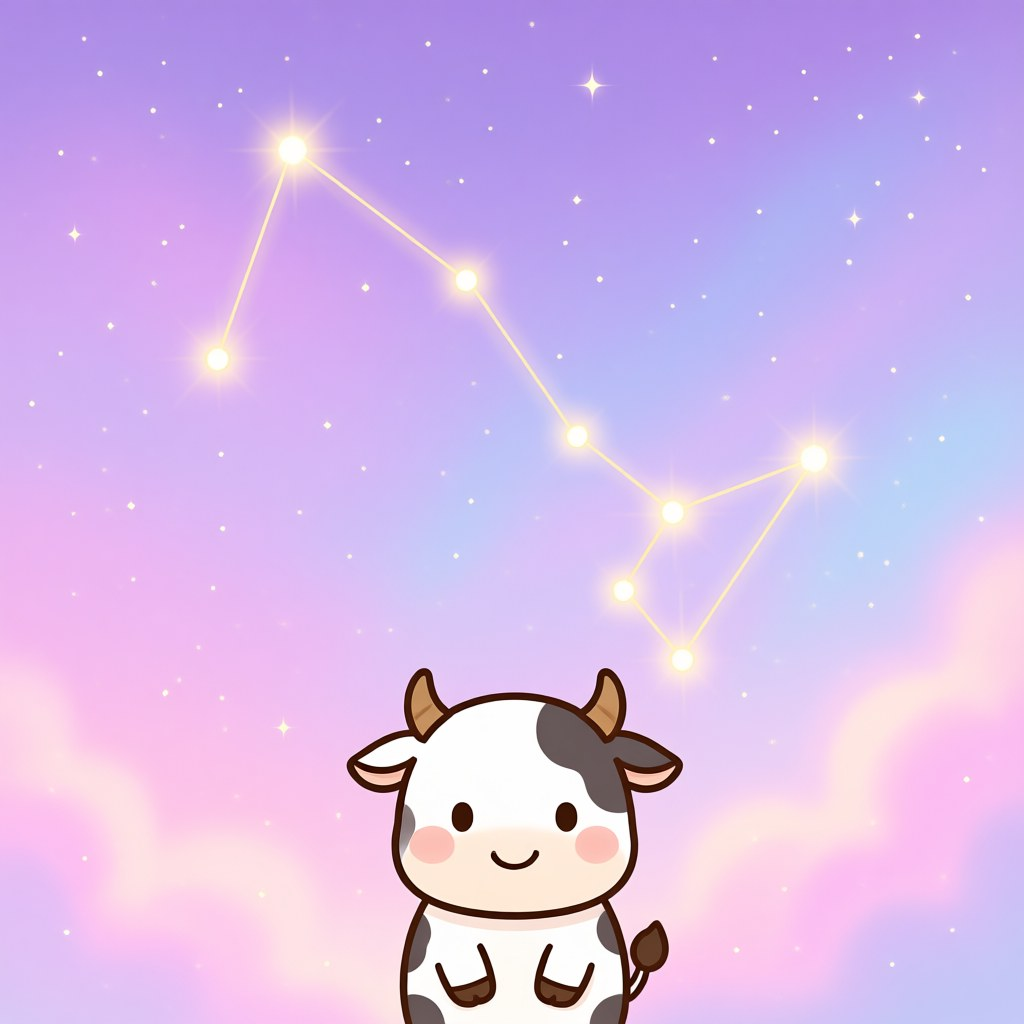
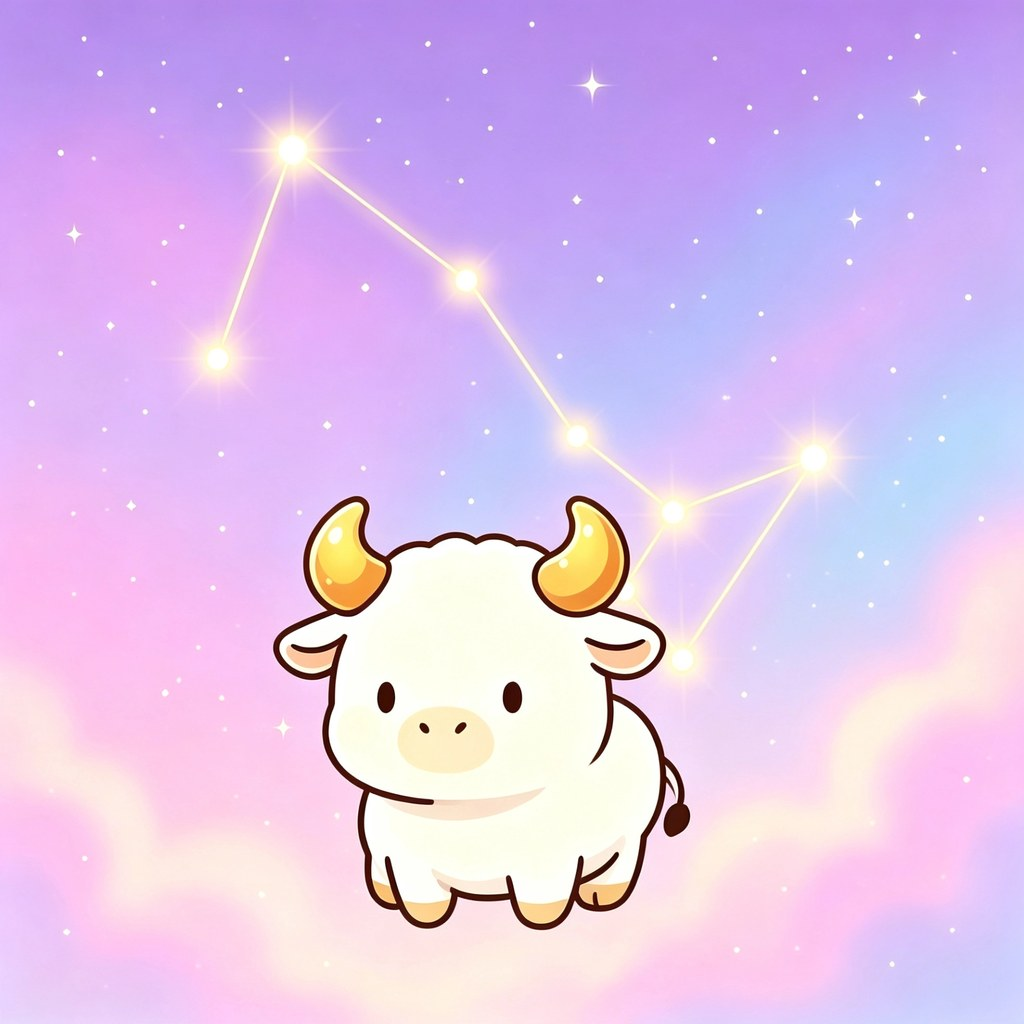
feat: 18 张星座卡统一换新画风(用户提供图)——真实 12 张现代星形+虚构 6 张人物形
- 真实十二星座卡:小爱/爸爸用外部工具按 v3 提示词生成,星形保持现代简化版
- 虚构星座卡改人物形创意:爸比(斗篷爸爸)/妈咪(长发妈妈)/汐涟夕海(小美人鱼)/星砾(背挎包小姑娘)/青原(花草帽小姑娘),「它长什么样」文案同步
- AGENTS.md 虚构星座卡 prompt 模板更新为验收画风

diff --git a/site/src/data/constellations.ts b/site/src/data/constellations.ts
@@ -344,37 +344,37 @@ export interface ImaginaryConstellation {
 
 export const imaginaryConstellations: Record<string, ImaginaryConstellation> = {
   babizuo: {
-    shape: '星星连成一件飘起来的大斗篷，斗篷上方还有一圈星星光环。',
+    shape: '星星连成一位帅气的爸爸，披着星空斗篷，头顶一圈星星光环，张开手臂要讲故事啦。',
     home: '住在小太空的故事云旁边，离每个小朋友的窗户都不远。',
     power: '斗篷里藏着好多好多故事，每天晚上讲一个。',
     story: '每天晚上，斗篷上亮起一颗星，那就是今晚要讲的故事。',
   },
   mamizuo: {
-    shape: '星星连成一颗大大的爱心，外面绕着一圈彩虹色的星星弧线。',
+    shape: '星星连成一位长头发的温柔妈妈，彩虹色的长发，裙子像贝壳一样一层一层，正张开怀抱。',
     home: '住在小太空最暖和的角落。',
     power: '她的拥抱能赶走所有噩梦。',
-    story: '爱心最中间的那颗星，是全小太空最暖和的一颗星。',
+    story: '她的怀抱正中央那颗星，是全小太空最暖和的一颗星。',
   },
   xilianzuo: {
-    shape: '星星连成一圈一圈散开的涟漪，正中间一颗小星星，像刚落进水面。',
+    shape: '星星连成一条小美人鱼，短短的浅蓝头发，鱼尾从蓝色渐变成淡淡的紫色，周围一圈圈小浪花。',
     home: '住在大海的浅水里，不喜欢很深很黑的深海。',
     power: '双手一挥，就能唤来软软的海潮波纹，把散落的珍珠贝壳轻轻聚拢。',
     story: '她和管晚霞的夕海座是交接班的老搭档：她管白天，夕海座管傍晚。',
   },
   xihaizuo: {
-    shape: '星星连成半轮落在海平线上的夕阳，周围是一层层晚霞浪花。',
+    shape: '星星连成一条小美人鱼，粉紫色双麻花辫，鱼尾从粉色渐变成暖暖的金色，身边是橘子色的晚霞浪花。',
     home: '住在傍晚的大海上，太阳回家的那条路边。',
     power: '晚霞浪花摸上去暖暖的，还能捏成小橘子、水蜜桃和棉花糖。',
     story: '每天傍晚，她把最后一片晚霞披在海面上，唱晚安歌哄大海睡觉。',
   },
   xinglizuo: {
-    shape: '星星连成一只圆圆的小挎包，周围散落着一把小星砾，包口冒出一颗顶着小芽的星星。',
+    shape: '星星连成一个小姑娘，金色波波头，贝雷帽上顶着一颗小芽星，背着圆圆的小挎包，身边飘着亮晶晶的小星砾。',
     home: '住在小太空的青青草原，是摩羯座和射手座家的邻居。',
     power: '星砾是全世界最好的修补材料：填进裂缝，大家"呼——"地一吹，就化成暖金色的光把裂缝焊住。',
     story: '她把水瓶座破掉的小瓶子补好了——破过的地方，变成了最亮的地方。',
   },
   qingyuanzuo: {
-    shape: '星星连成一朵大大的蒲公英，白白的种子正乘着风往外飞，下面是一顶小小的花草帽。',
+    shape: '星星连成一个小姑娘，浅草绿双马尾，戴着别满小雏菊和蒲公英的花草帽，披着叶子做的披风。',
     home: '住在真正的青青草原——摩羯座和射手座的家乡。',
     power: '她认得每一朵花，知道哪朵刚开、哪朵还在睡懒觉；她做的蒲公英箭射到天上，一朵能变成一百朵。',
     story: '朋友们去小太空的日子，她留下来照顾草原，所以草原一直开着花。',

diff --git a/AGENTS.md b/AGENTS.md
@@ -98,7 +98,7 @@ npm run sync         # 只跑资源同步,不启 dev server
 2. **生成卡**(agnes text2img,1024×1024;也可换其他生图工具,提示词通用):
 
    ```
-   儿童绘本风星座插画,正方形,画面铺满整个画布,不要任何边框、黑边、白边。梦幻粉彩夜空,淡紫到粉蓝柔和渐变,散布细碎小星光。画面主体:【形状描述】。整个形象由发光的淡金色圆点星星组成,星星之间用细细的金线连接,星星带柔和光晕,整体像发光的可爱贴纸。构图居中简洁,治愈梦幻。不要任何文字,不要写实,不要古典版画风格,不要纯黑背景。
+   正方形儿童插画,画面铺满整个画布,不要任何边框和白边。梦幻粉彩夜空,粉紫到粉蓝柔和渐变,散布细碎的闪光小星星。画面主体在正中央:【形状描述】,整个主体由发光的五角星形状的星星组成,星星之间用细细的金色光线连接,带柔和的暖金色光晕,风格像柔软的贴纸。整体奶油糖果色调,治愈梦幻,光照柔和。不要任何文字。
    ```
 
    ```bash
